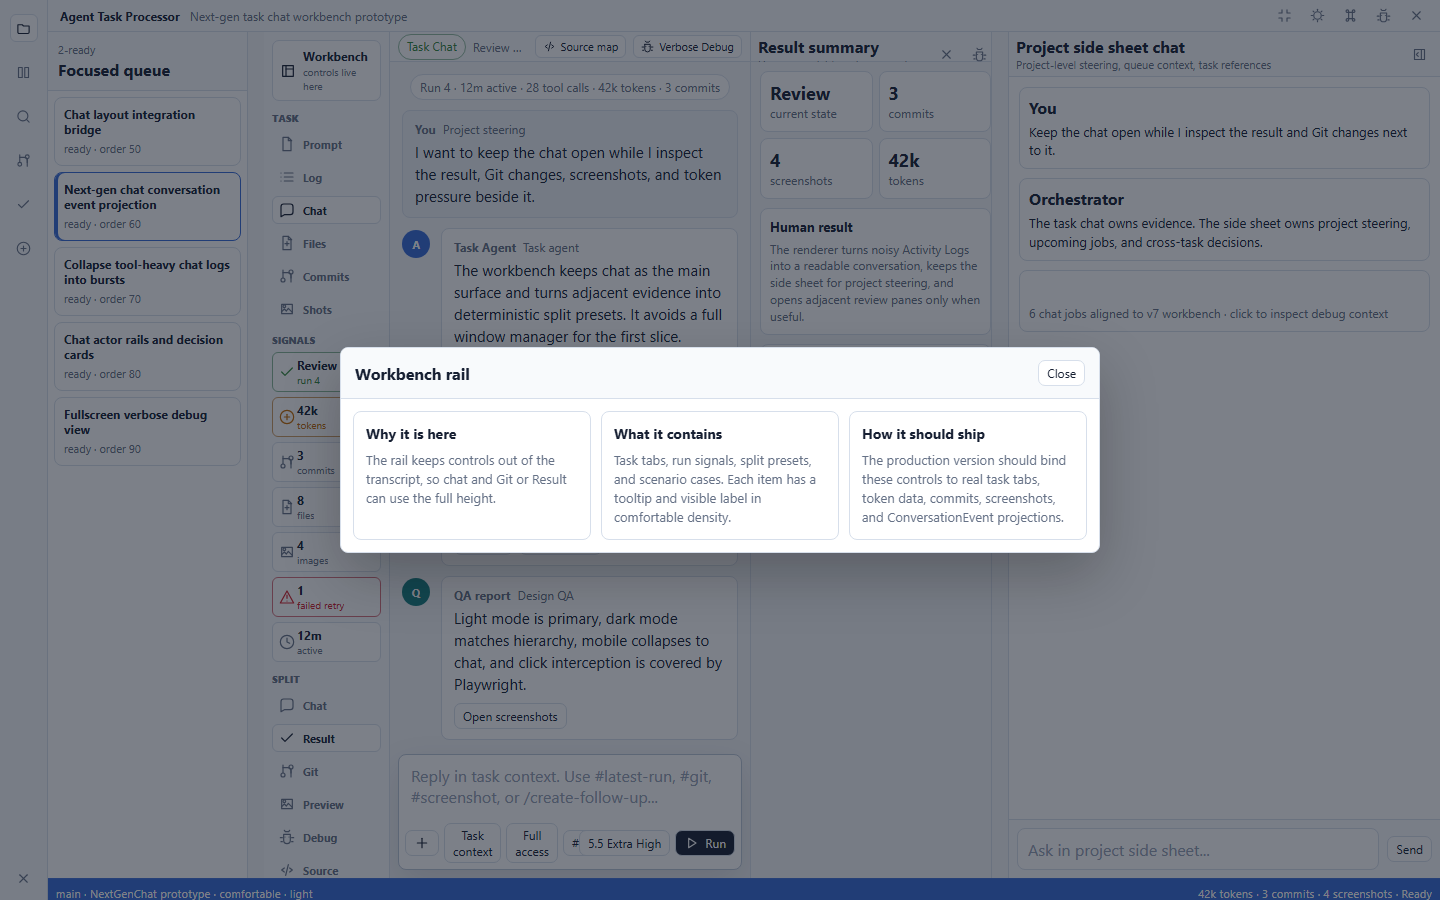
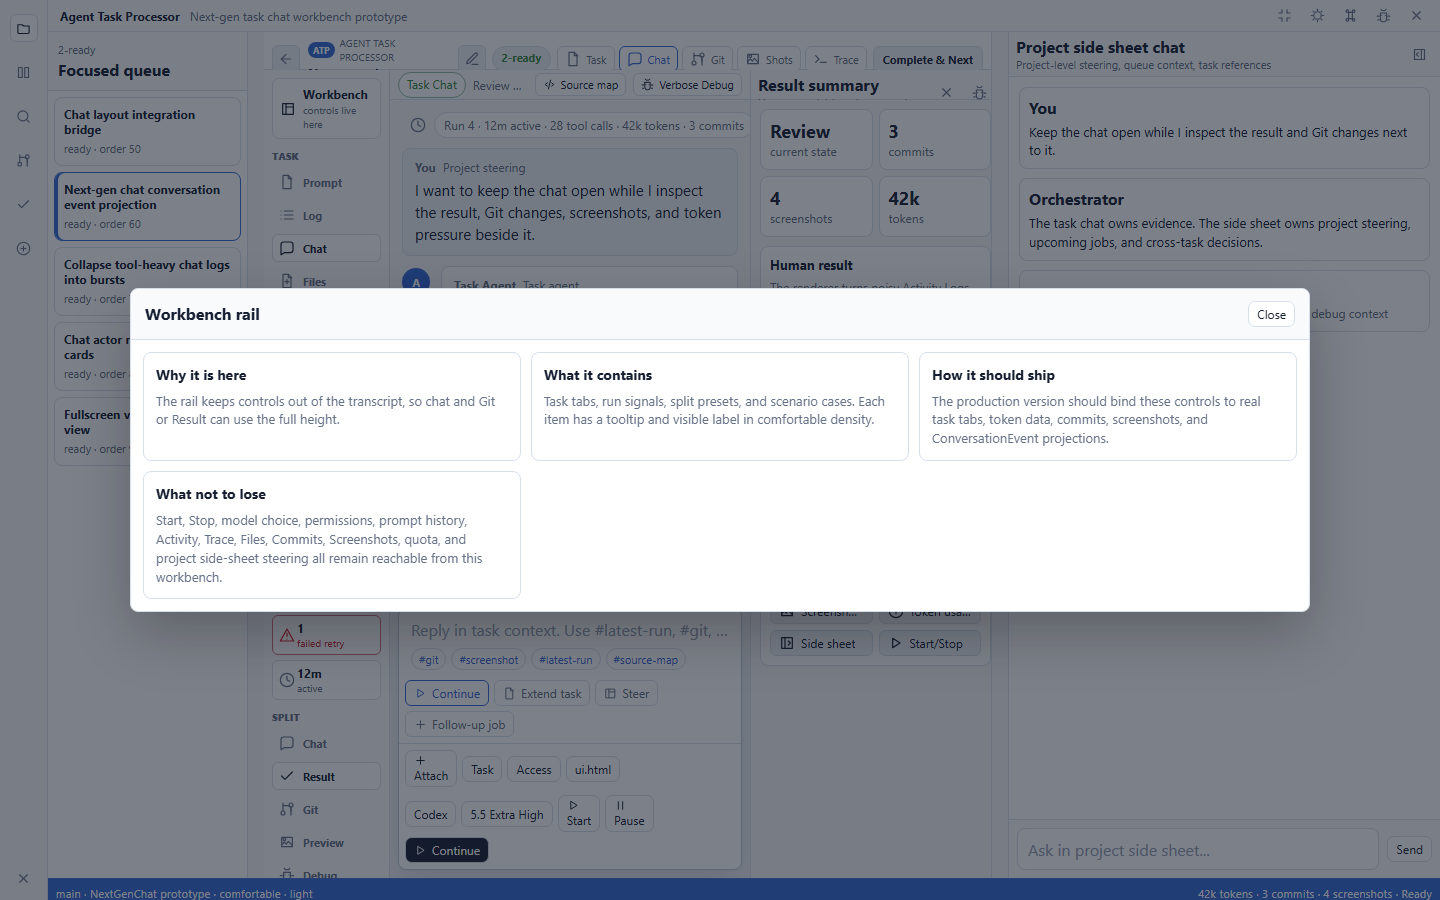
feat: complete next-gen chat workbench mockup

diff --git a/frontend/src/app/components/mockups/next-gen-chat-workbench-prototype.component.ts b/frontend/src/app/components/mockups/next-gen-chat-workbench-prototype.component.ts
@@ -373,8 +373,8 @@ interface ChatTurn {
                         </svg>
                         Attach
                       </button>
-                      <button title="Scope follow-up to the active task">Task context</button>
-                      <button title="Permission mode for the next CLI run">Full access</button>
+                      <button title="Scope follow-up to the active task">Task</button>
+                      <button title="Permission mode for the next CLI run">Access</button>
                       <button title="Selected file context">ui.html</button>
                     </div>
                     <div class="composer__runtime">
@@ -1001,25 +1001,16 @@ interface ChatTurn {
     }
 
     .project-pill {
-      width: fit-content;
-      max-width: 100%;
       display: inline-flex;
       align-items: center;
       gap: 5px;
       color: var(--muted);
       font-size: 10px;
       text-transform: uppercase;
-      letter-spacing: 0;
-      overflow: hidden;
-      white-space: nowrap;
-      text-overflow: ellipsis;
     }
 
     .project-pill b {
-      display: inline-grid;
-      place-items: center;
-      width: 18px;
-      height: 18px;
+      padding: 2px 5px;
       border-radius: 999px;
       background: var(--accent);
       color: #fff;
@@ -1029,11 +1020,11 @@ interface ChatTurn {
     .detail-chrome__state,
     .detail-chrome__complete {
       min-height: 26px;
-      border: 1px solid color-mix(in srgb, var(--ok) 45%, var(--line));
+      border: 1px solid var(--line);
       border-radius: 999px;
       padding: 3px 9px;
       color: var(--ok);
-      background: color-mix(in srgb, var(--ok) 10%, var(--surface));
+      background: var(--surface-soft);
       font-size: 11px;
       font-weight: 750;
       white-space: nowrap;
@@ -1068,15 +1059,9 @@ interface ChatTurn {
       white-space: nowrap;
     }
 
-    .detail-chrome__panes .svg-icon {
-      width: 13px;
-      height: 13px;
-    }
-
     .detail-chrome__pane--active {
       color: var(--accent) !important;
-      border-color: color-mix(in srgb, var(--accent) 46%, var(--line)) !important;
-      background: color-mix(in srgb, var(--accent) 8%, var(--surface)) !important;
+      border-color: var(--accent) !important;
     }
 
     .composer__bar > div,
@@ -1397,10 +1382,9 @@ interface ChatTurn {
     .run-popover {
       margin: -2px auto 10px;
       width: min(620px, 100%);
-      border: 1px solid color-mix(in srgb, var(--accent) 36%, var(--line));
+      border: 1px solid var(--line);
       border-radius: 8px;
       background: var(--surface);
-      box-shadow: 0 18px 44px rgba(20, 27, 40, 0.13);
       overflow: hidden;
     }
 
@@ -1439,7 +1423,7 @@ interface ChatTurn {
 
     .run-popover__grid {
       display: grid;
-      grid-template-columns: repeat(4, minmax(0, 1fr));
+      grid-template-columns: repeat(2, minmax(0, 1fr));
       gap: 1px;
       background: var(--line);
     }
@@ -1460,11 +1444,7 @@ interface ChatTurn {
     }
 
     .run-popover__grid b {
-      min-width: 0;
       overflow: hidden;
-      white-space: nowrap;
-      text-overflow: ellipsis;
-      font-size: 12px;
     }
 
     .turn {
@@ -1638,7 +1618,7 @@ interface ChatTurn {
       border: 1px solid var(--line);
       border-radius: 999px;
       color: var(--accent);
-      background: color-mix(in srgb, var(--accent) 7%, var(--surface));
+      background: var(--surface);
       padding: 1px 7px;
       font-size: 11px;
     }
@@ -1665,15 +1645,15 @@ interface ChatTurn {
 
     .composer__mode--active {
       color: var(--accent) !important;
-      border-color: color-mix(in srgb, var(--accent) 48%, var(--line)) !important;
-      background: color-mix(in srgb, var(--accent) 8%, var(--surface)) !important;
+      border-color: var(--accent) !important;
     }
 
     .composer__bar {
       min-height: 40px;
-      display: grid;
-      grid-template-columns: minmax(0, 1fr) auto;
+      display: flex;
       align-items: center;
+      justify-content: space-between;
+      flex-wrap: wrap;
       gap: 8px;
       padding: 6px;
     }
@@ -1978,8 +1958,7 @@ interface ChatTurn {
 
     .modal__tab--active {
       color: var(--accent) !important;
-      border-color: color-mix(in srgb, var(--accent) 50%, var(--line)) !important;
-      background: color-mix(in srgb, var(--accent) 10%, var(--surface)) !important;
+      border-color: var(--accent) !important;
     }
 
     .modal__panel--debug {
@@ -2007,9 +1986,6 @@ interface ChatTurn {
 
     .debug-grid h3 { margin: 0 0 10px; font-size: 14px; }
     .debug-grid p { color: var(--muted); line-height: 1.45; margin: 0; }
-
-    .modal__panel--image { width: min(980px, 90vw); }
-    .modal__panel--guide { width: min(760px, 90vw); }
 
     .guide-grid {
       display: grid;

diff --git a/frontend/e2e/next-gen-chat-angular-prototype.spec.ts b/frontend/e2e/next-gen-chat-angular-prototype.spec.ts
@@ -47,6 +47,7 @@ test.describe('@mockup next-gen chat Angular prototype', () => {
     await page.goto('/');
 
     await expect(page.getByTestId('next-gen-chat-angular-prototype')).toBeVisible();
+    await expect(page.getByTestId('prototype-detail-chrome')).toContainText('Complete & Next');
     await expect(page.getByTestId('prototype-summary-strip')).toBeVisible();
     await expect(page.getByTestId('prototype-context-pane')).toContainText('Result summary');
     await page.waitForTimeout(250);
@@ -54,6 +55,14 @@ test.describe('@mockup next-gen chat Angular prototype', () => {
       path: path.join(evidenceDir, 'next-gen-chat-angular-prototype-result.png'),
       fullPage: false,
     });
+
+    await page.getByTestId('prototype-run-marker').click();
+    await expect(page.getByTestId('prototype-run-popover')).toBeVisible();
+    await page.screenshot({
+      path: path.join(evidenceDir, 'next-gen-chat-angular-prototype-run-popover.png'),
+      fullPage: false,
+    });
+    await page.getByTestId('prototype-run-marker').click();
 
     await page.getByTestId('prototype-rail-guide').click();
     await expect(page.getByTestId('prototype-rail-guide-modal')).toBeVisible();
@@ -91,6 +100,7 @@ test.describe('@mockup next-gen chat Angular prototype', () => {
     await page.getByTestId('prototype-pane-debug').click();
     await page.getByTestId('prototype-debug-open').click();
     await expect(page.getByTestId('prototype-debug-modal')).toBeVisible();
+    await page.getByTestId('prototype-debug-tab-tokens').click();
     await page.screenshot({
       path: path.join(evidenceDir, 'next-gen-chat-angular-prototype-debug-dark.png'),
       fullPage: false,

diff --git a/docs/mockups/chat-window-next-gen/README.md b/docs/mockups/chat-window-next-gen/README.md
@@ -50,6 +50,7 @@ This folder is not existing product behavior. It is the target surface for the n
 - [evidence/next-gen-chat-v7-debug-dark.png](evidence/next-gen-chat-v7-debug-dark.png) - current v7 dark Verbose Debug view.
 - [evidence/next-gen-chat-v7-mobile.png](evidence/next-gen-chat-v7-mobile.png) - current v7 mobile chat reference.
 - [evidence/next-gen-chat-angular-prototype-result.png](evidence/next-gen-chat-angular-prototype-result.png) - Angular prototype Result split.
+- [evidence/next-gen-chat-angular-prototype-run-popover.png](evidence/next-gen-chat-angular-prototype-run-popover.png) - Angular prototype run marker popover.
 - [evidence/next-gen-chat-angular-prototype-rail-guide.png](evidence/next-gen-chat-angular-prototype-rail-guide.png) - Angular prototype Workbench rail guide.
 - [evidence/next-gen-chat-angular-prototype-git.png](evidence/next-gen-chat-angular-prototype-git.png) - Angular prototype Git split.
 - [evidence/next-gen-chat-angular-prototype-compact.png](evidence/next-gen-chat-angular-prototype-compact.png) - Angular prototype compact density.
@@ -68,7 +69,7 @@ The v6 iteration added a log-grounded edge-case taxonomy. A local sweep scanned 
 
 The v7 iteration adds the workbench layout contract. The task Chat tab keeps the conversation primary while offering explicit split presets: Chat only, Chat plus Result, Chat plus Git, Chat plus Preview, and Chat plus Debug. A compact summary strip surfaces state, tokens, commits, changed files, screenshots, retry warnings, and duration without pushing the transcript down. The adjacent pane is a fast preview and drill-down launcher; full evidence remains in the existing task tabs and Verbose Debug.
 
-The Angular prototype makes the same direction clickable inside the real frontend shell behind `atp.flag.nextGenChatPrototype`. It is intentionally full-screen and self-contained, so production chat remains untouched while the flag is off. The newest iteration is the tall workbench: task metadata, split controls, scenario switches, and run metrics sit in a left inspector rail or status bar so the transcript and adjacent Git, Result, Preview, Debug, or Source pane can use almost the full task height. The rail now uses inline icons, readable labels in comfortable density, compact icon-only mode, and an explanatory guide modal. See [angular-prototype.md](angular-prototype.md).
+The Angular prototype makes the same direction clickable inside the real frontend shell behind `atp.flag.nextGenChatPrototype`. It is intentionally full-screen and self-contained, so production chat remains untouched while the flag is off. The newest iteration is the tall workbench: task metadata, split controls, scenario switches, and run metrics sit in a left inspector rail or status bar so the transcript and adjacent Git, Result, Preview, Debug, or Source pane can use almost the full task height. The prototype now also mirrors more of the existing task-detail product surface: compact task chrome, pane toggles, Complete & Next, a richer composer command deck, clickable run markers, and a multi-tab Verbose Debug view. The rail uses inline icons, readable labels in comfortable density, compact icon-only mode, and an explanatory guide modal. The prototype is lazy/deferred behind the flag to keep the normal app bundle lighter. See [angular-prototype.md](angular-prototype.md).
 
 In Stable, tool-heavy jobs already reach this density:
 

diff --git a/docs/mockups/chat-window-next-gen/angular-prototype.md b/docs/mockups/chat-window-next-gen/angular-prototype.md
@@ -45,21 +45,23 @@ This follows the repo's product boundary: the app itself should not grow branch/
 
 ## Interaction Coverage
 
-The latest iteration is a tall workbench. Task tabs, summary metrics, split presets, and scenario switches moved out of horizontal top bands into a narrow left inspector rail. Chat and the adjacent Result, Git, Preview, Debug, or Source pane now start directly under the 32px app topbar and run down to the status bar. This is the working target for the production handoff: normal chat and adjacent review panes should use roughly the full available task height.
+The latest iteration is a tall workbench. Task tabs, summary metrics, split presets, and scenario switches moved out of horizontal top bands into a narrow left inspector rail. Chat and the adjacent Result, Git, Preview, Debug, or Source pane now start directly under a compact task-detail chrome and run down to the status bar. This is the working target for the production handoff: normal chat and adjacent review panes should use roughly the full available task height.
 
-The rail now has inline icons, visible labels in comfortable density, tooltip titles, and a `Workbench` guide button that explains why the controls live there. Compact density collapses the same controls back to icons so the chat area stays large.
+The rail now has inline icons, visible labels in comfortable density, tooltip titles, and a `Workbench` guide button that explains why the controls live there. Compact density collapses the same controls back to icons so the chat area stays large. The prototype is also deferred behind the feature flag, so the normal app does not pay the prototype bundle cost when the flag is off.
 
 The prototype currently covers:
 
-- Task detail shell with task list, Chat tab, side sheet, and status bar.
+- Task detail shell with project chip, editable-title affordance, state pill, existing pane toggles, Complete & Next, task list, Chat tab, side sheet, and status bar.
 - Workbench panes: Result, Git, Preview, Debug, Source, and Chat-only.
 - Left inspector rail with task tabs, run state, tokens, commits, files, screenshots, failed retry, duration, split presets, and scenario switches.
 - Rail guide modal that explains the control model.
+- Clickable run marker popover with CLI, model, session, trace range, outcome, token budget, and artifact counts.
 - Scenario controls: Review, Tool burst, Wait loop, Images, Drift.
 - Tool-burst expansion.
+- Composer command deck with Continue, Extend task, Steer, Follow-up job, attachments, context chips, permissions, CLI, model, Start, Pause, and send action.
 - Git change preview next to chat.
 - Screenshot lightbox.
-- Verbose Debug modal.
+- Verbose Debug modal with Overview, Actors, Tools, Tokens, and Trace filters.
 - Light and dark theme.
 - Comfortable and compact density.
 - Mobile collapse.
@@ -69,6 +71,7 @@ The prototype currently covers:
 The durable screenshots live in `docs/mockups/chat-window-next-gen/evidence/`:
 
 - `next-gen-chat-angular-prototype-result.png`
+- `next-gen-chat-angular-prototype-run-popover.png`
 - `next-gen-chat-angular-prototype-rail-guide.png`
 - `next-gen-chat-angular-prototype-git.png`
 - `next-gen-chat-angular-prototype-compact.png`
